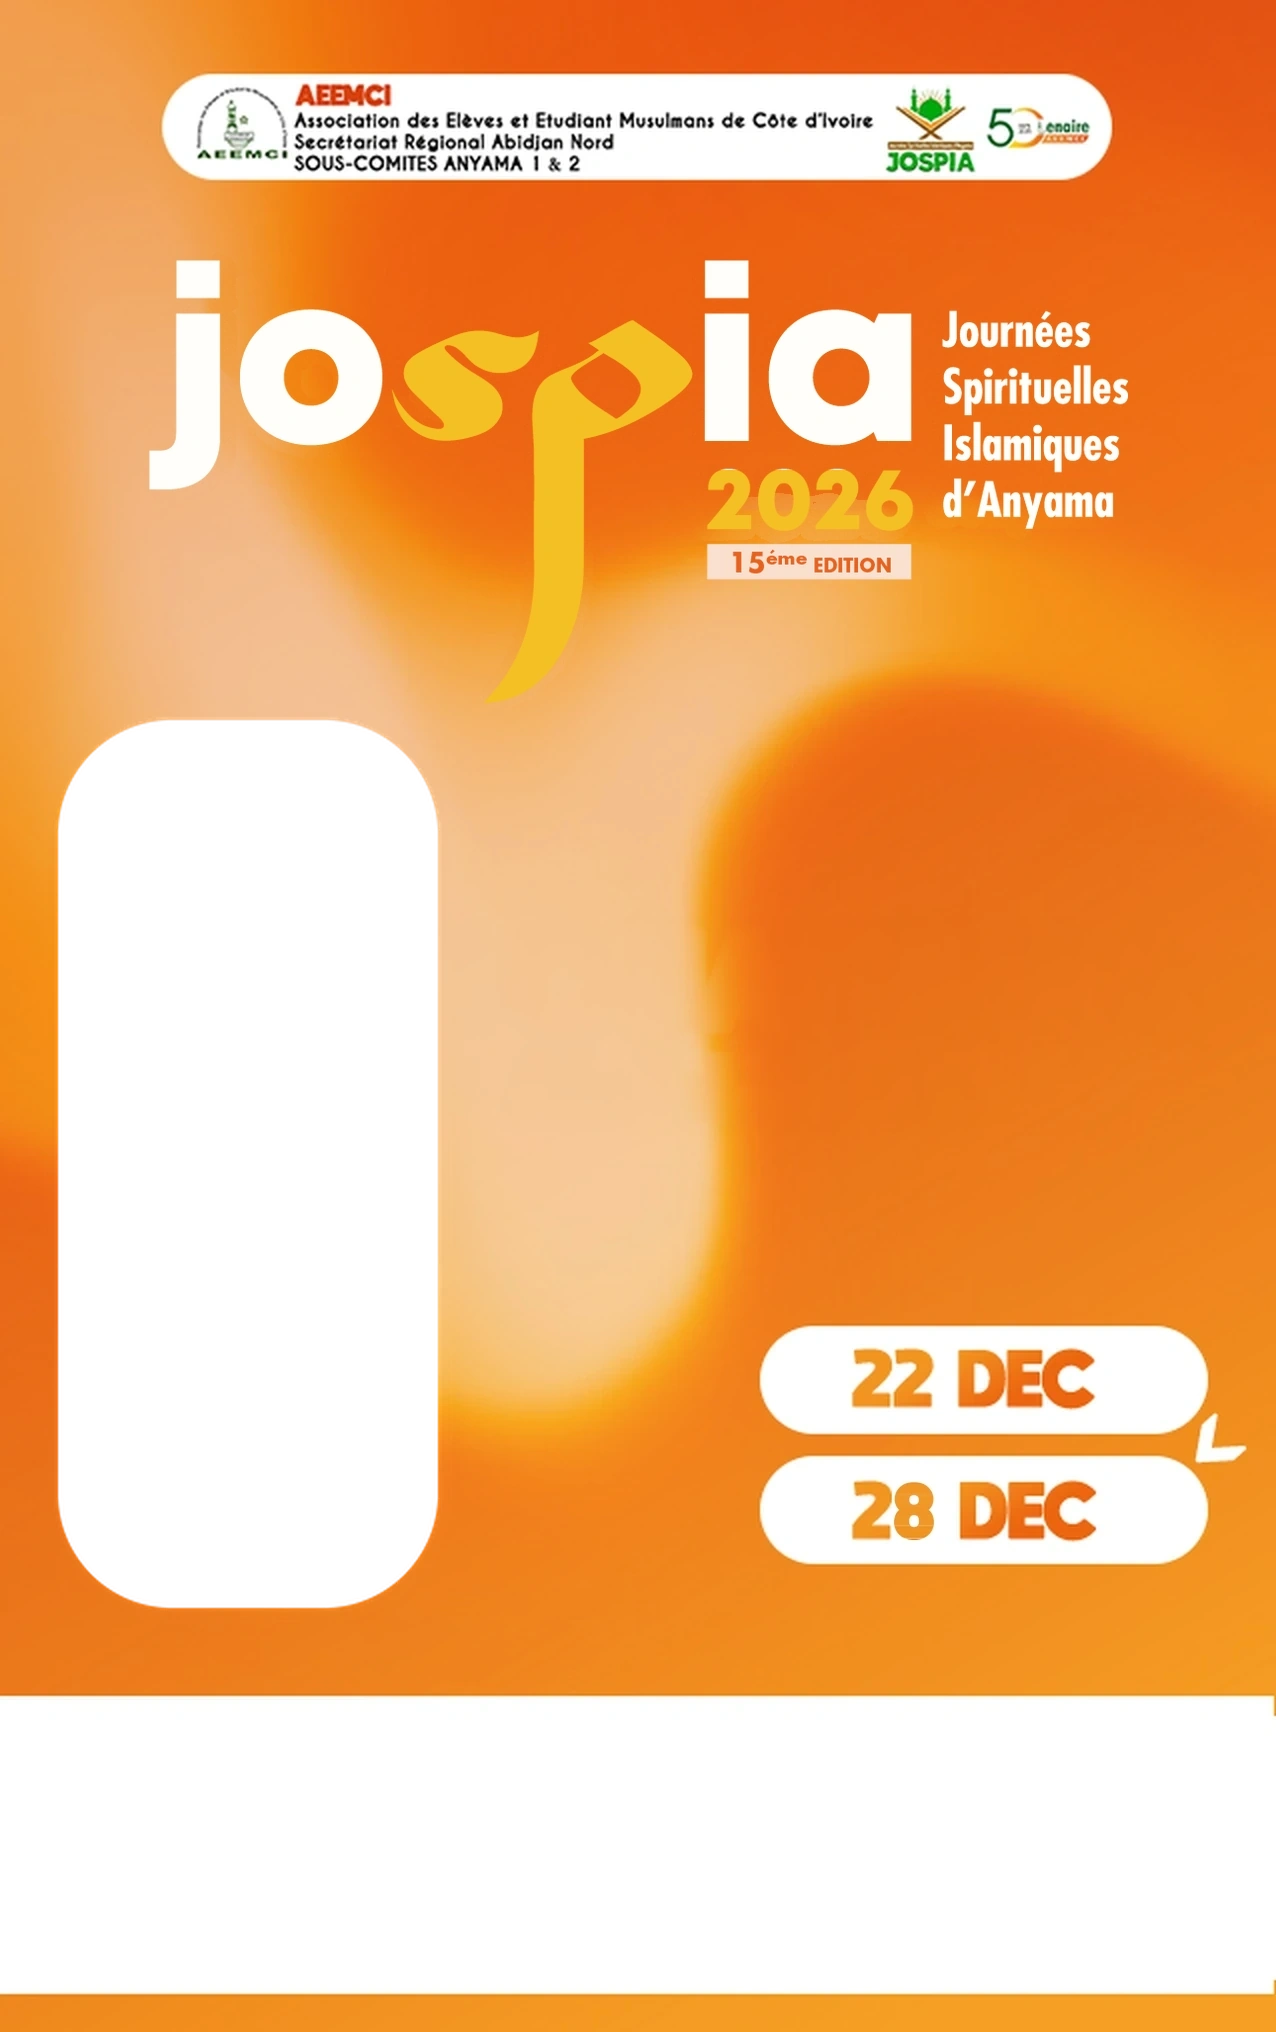
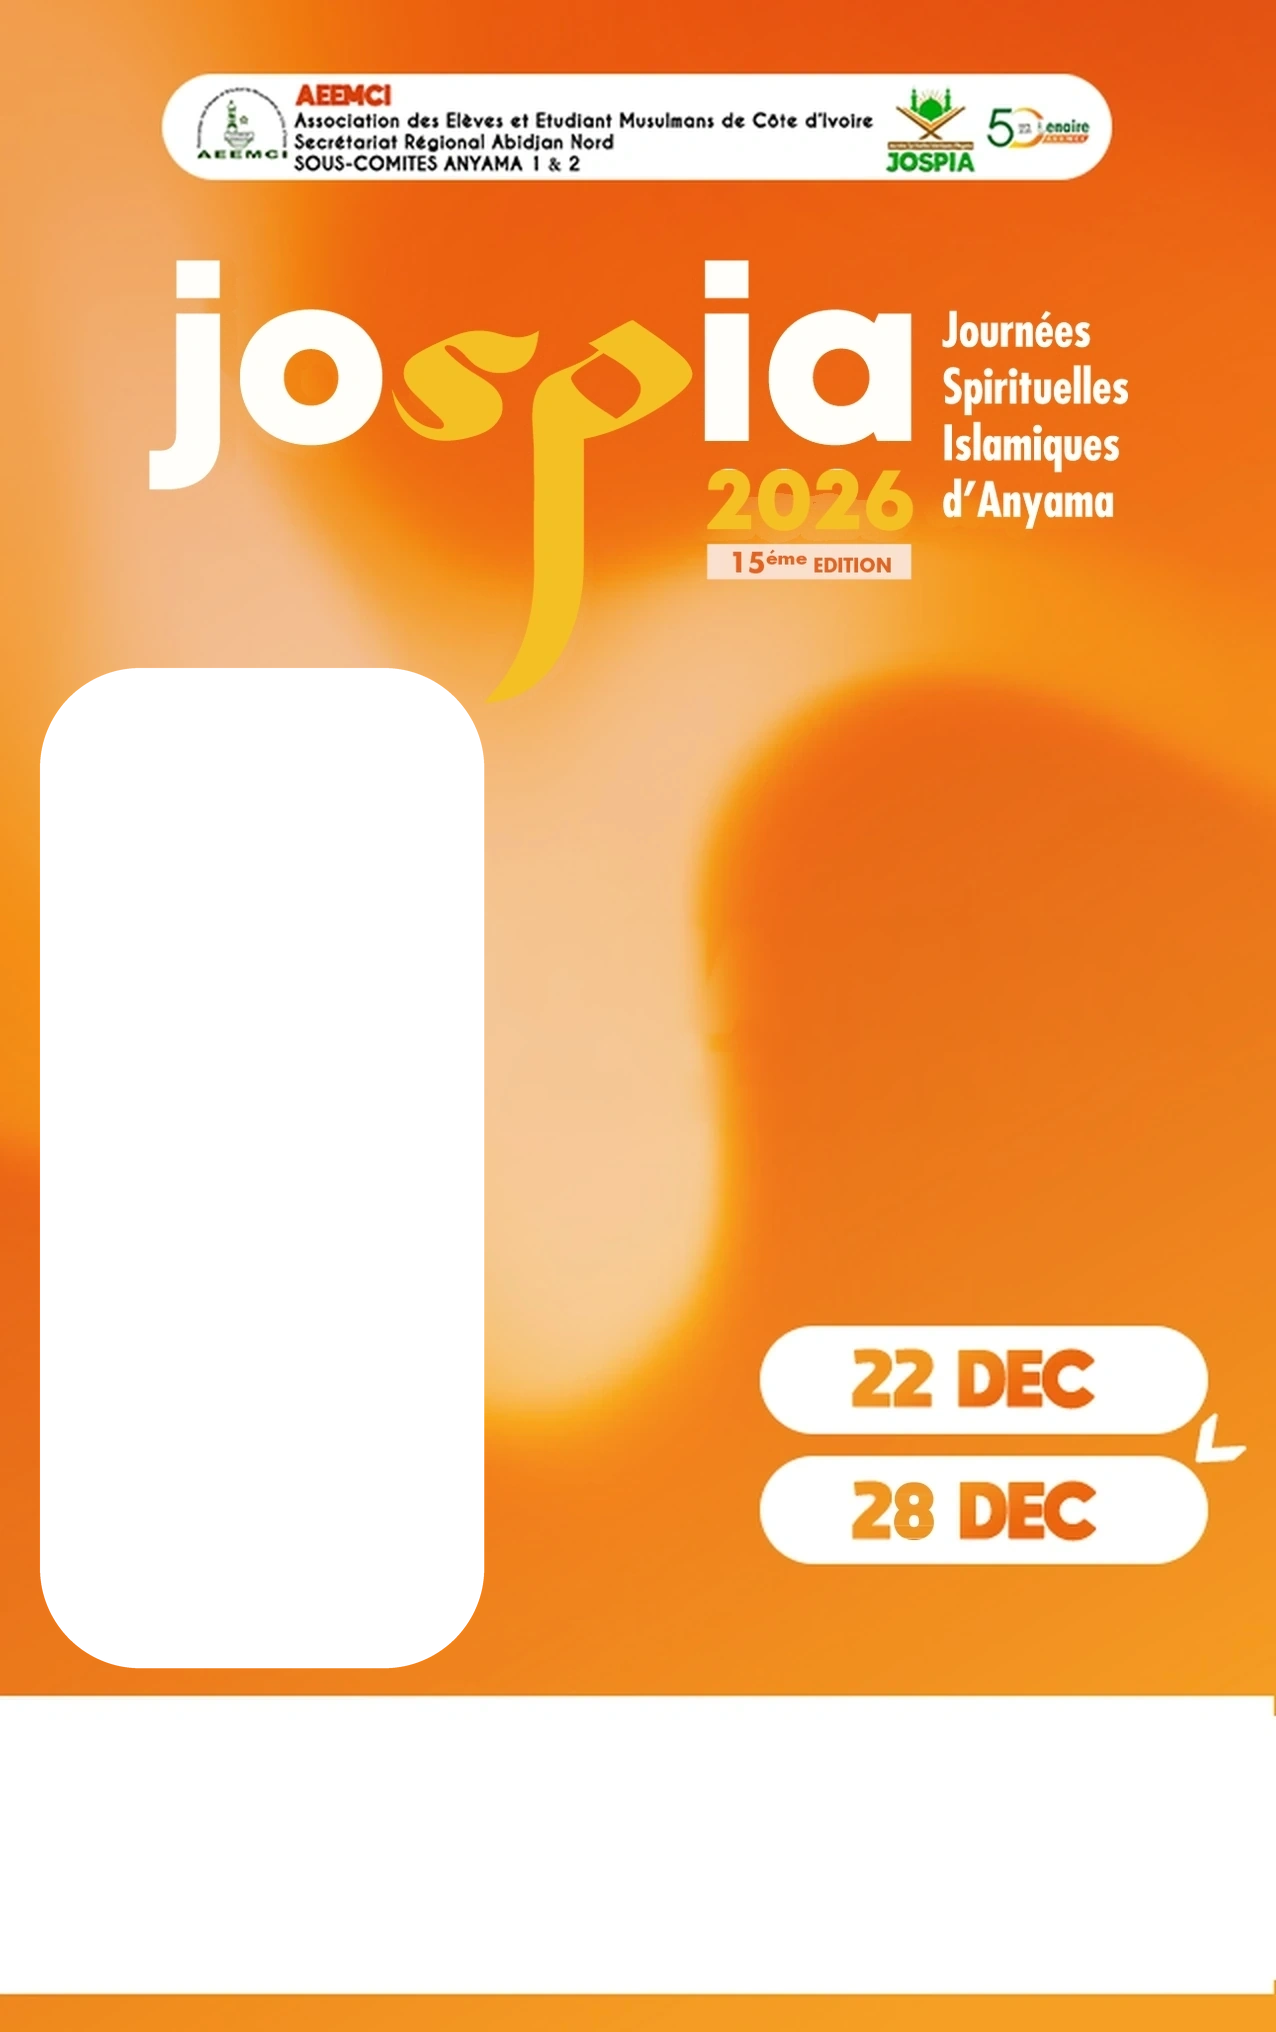
Badge commission : cadre photo agrandi (222 x 500 au lieu de 192 x 446)
Claude-Session: https://claude.ai/code/session_01KoR57eyK1Tu3mM4eFj1smP

Changed region(s): [[0.0306, 0.31, 0.3973, 0.8371]]

diff --git a/assets/css/style.css b/assets/css/style.css
@@ -982,8 +982,8 @@ footer a { color: #fff; font-weight: 600; }
 .page-badges .jos-badge { max-width: 300px; }
 .jos-badge .jos-doc__stage { --u: calc(100cqw / 638); aspect-ratio: 638 / 1016; background: #fff; }
 .jos-badge__photo {
-    position: absolute; left: calc(var(--u) * 28); top: calc(var(--u) * 359);
-    width: calc(var(--u) * 192); height: calc(var(--u) * 446);
+    position: absolute; left: calc(var(--u) * 20); top: calc(var(--u) * 334);
+    width: calc(var(--u) * 222); height: calc(var(--u) * 500);
     overflow: hidden; background: #fff;
 }
 .jos-badge__photo img, .jos-badge-sem__photo img { display: block; width: 100%; height: 100%; object-fit: cover; object-position: 50% 18%; max-width: none; }

diff --git a/includes/badge_commission_carte.php b/includes/badge_commission_carte.php
@@ -5,8 +5,8 @@
  * Repère de mise en page : 638 x 1016 (voir .jos-badge dans style.css et pdfBadgeCommission dans pdf_docs.php).
  */
 $__avatar = BASE_URL . '/assets/img/avatar.svg';
-$__c = !empty($membre['photo']) ? photoCadrage($GLOBALS['pdo'], $membre['photo'], 192 / 446, 0.5) : null;
-$__f = $__c ? [0.5, 0.2] : photoFocus($GLOBALS['pdo'], $membre['photo'] ?? '', 192 / 446);
+$__c = !empty($membre['photo']) ? photoCadrage($GLOBALS['pdo'], $membre['photo'], 222 / 500, 0.5) : null;
+$__f = $__c ? [0.5, 0.2] : photoFocus($GLOBALS['pdo'], $membre['photo'] ?? '', 222 / 500);
 $__photo = !empty($membre['photo']) ? BASE_URL . '/uploads/photos/' . rawurlencode($membre['photo']) : $__avatar;
 $__mep = josBadgeCommissionMiseEnPage($membre['nom_prenoms'], $membre['commission']);
 ?>

diff --git a/includes/pdf_docs.php b/includes/pdf_docs.php
@@ -204,7 +204,7 @@ function pdfBadgeCommission(PDO $pdo, array $m, $S = 2.0) {
     // Modèle orange 638 x 1016 (mise en page identique à .jos-badge dans style.css)
     $W = (int)round(638 * $S); $H = (int)round(1016 * $S);
     $im = pdfToile($W, $H);
-    pdfPhotoCadree($pdo, $im, $m['photo'] ?? '', 28 * $S, 359 * $S, 192 * $S, 446 * $S, 0.5);
+    pdfPhotoCadree($pdo, $im, $m['photo'] ?? '', 20 * $S, 334 * $S, 222 * $S, 500 * $S, 0.5);
     pdfModele($im, 'badge_commission.webp', $W, $H);
     $mep = josBadgeCommissionMiseEnPage($m['nom_prenoms'], $m['commission']);
     $police = 'barlow-latin-800-normal.ttf';
